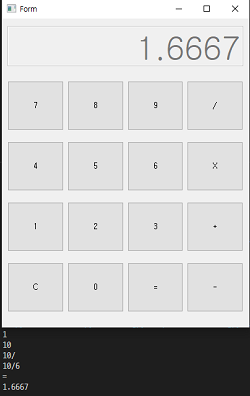
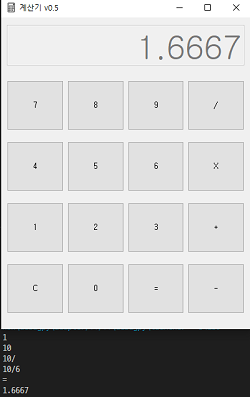
2023.03.20.

diff --git a/part1/studyPyQt/mp26_pqtCalcApp.py b/part1/studyPyQt/mp26_pqtCalcApp.py
@@ -9,6 +9,8 @@ class qtApp(QWidget):
     def __init__(self):
         super().__init__()
         uic.loadUi('./studyPyQt/calculator.ui', self)
+        self.setWindowTitle('계산기 v0.5')
+        self.setWindowIcon(QIcon('./studyPyQt/calculator.png'))
 
         # 시그널 16개의 슬롯함수 : 1개 -> btnClicked
         self.btn_C.clicked.connect(self.btnClicked)
